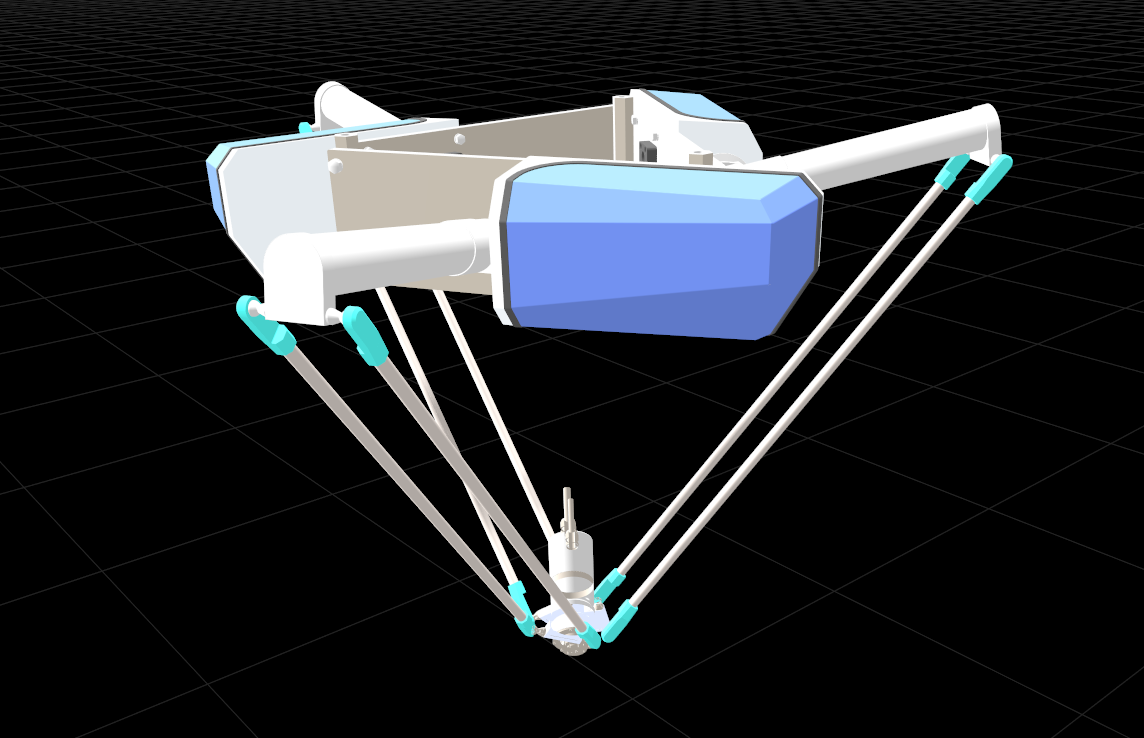
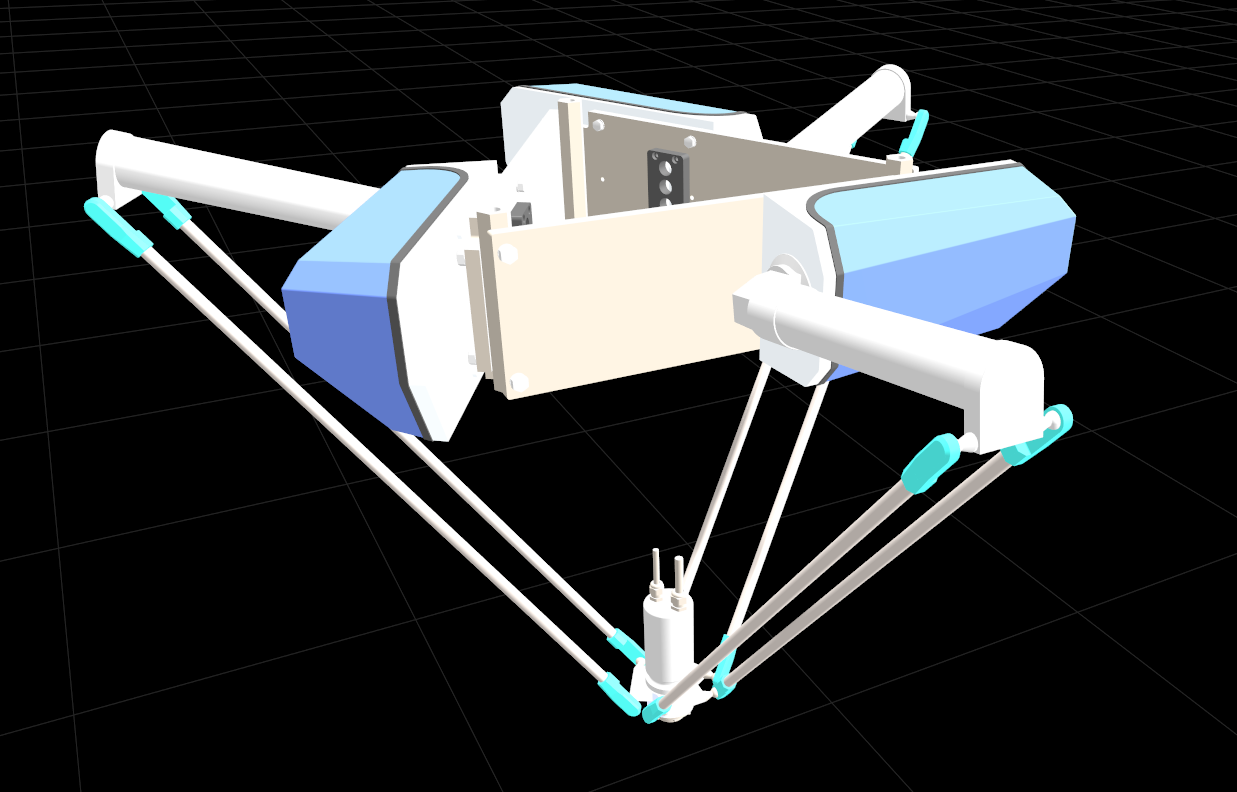
printing sum of mobility numbers for multidof joints

diff --git a/src/gui/workspace.cpp b/src/gui/workspace.cpp
@@ -3865,7 +3865,7 @@ void Workspace::updateTree() {
         if(joint->primitiveDisplacement != NULL) {
           sprintf(
             numberString,
-            "%0.4f",
+            "%0.5f",
             *(joint->primitiveDisplacement));
           (*it)->setText(2, numberString);
         }
@@ -3874,24 +3874,24 @@ void Workspace::updateTree() {
         } else if(joint->dof == 1) {
           sprintf(
             numberString,
-            "%0.4f",
+            "%0.5f",
             joint->mobilityNumber[0]);
         } else if(joint->dof == 3) {
           sprintf(
             numberString,
-            "%0.4f, %0.4f, %0.4f",
-            joint->mobilityNumber[0],
-            joint->mobilityNumber[1],
+            "%0.5f",
+            joint->mobilityNumber[0] +
+            joint->mobilityNumber[1] +
             joint->mobilityNumber[2]);
         } else if(joint->dof == 6) {
           sprintf(
             numberString,
-            "%0.4f, %0.4f, %0.4f, %0.4f, %0.4f, %0.4f",
-            joint->mobilityNumber[0],
-            joint->mobilityNumber[1],
-            joint->mobilityNumber[2],
-            joint->mobilityNumber[3],
-            joint->mobilityNumber[4],
+            "%0.5f",
+            joint->mobilityNumber[0] +
+            joint->mobilityNumber[1] +
+            joint->mobilityNumber[2] +
+            joint->mobilityNumber[3] +
+            joint->mobilityNumber[4] +
             joint->mobilityNumber[5]);
         }
         (*it)->setText(3, numberString);
